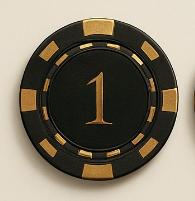
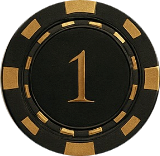
arreglado fichas rouleta

diff --git a/client/src/React/pages/games/RouletteGame.tsx b/client/src/React/pages/games/RouletteGame.tsx
@@ -3,10 +3,12 @@ import {ChipList, RouletteTable, RouletteWheel, useRoulette} from 'react-casino-
 import 'react-casino-roulette/dist/index.css';
 import '@css/NavBarStyle.css';
 import "@css/NewStyle.css"
-import whiteChip from '@assets/ficha11.png';
-import blueChip from '@assets/ficha10.png';
-import blackChip from '@assets/ficha50.png';
-import cyanChip from '@assets/ficha100.png';
+import oneChip from '@assets/ficha1.png';
+import tenChip from '@assets/ficha10.png';
+import fiftyChip from '@assets/ficha50.png';
+import oneHundredChip from '@assets/ficha100.png';
+import fiveHundredChip from '@assets/ficha500.png';
+import oneThousandChip from '@assets/ficha1000.png';
 import {useAuth} from "@context/AuthContext.tsx";
 import {usePlay} from '@context/PlayContext.tsx';
 import {useUser} from '@context/UserContext';
@@ -18,11 +20,14 @@ const BLACK_NUMBERS = ['2', '4', '6', '8', '10', '11', '13', '15', '17', '20', '
 
 // Definición de los chips
 const chips = {
-    '1': whiteChip,
-    '10': blueChip,
-    '100': blackChip,
-    '500': cyanChip,
+    '1': oneChip,
+    '10': tenChip,
+    '50': fiftyChip,
+    '100': oneHundredChip,
+    '500': fiveHundredChip,
+    '1000': oneThousandChip,
 };
+
 
 
 // ID del juego de ruleta

diff --git a/client/src/Css/NewStyle.css b/client/src/Css/NewStyle.css
@@ -287,6 +287,15 @@
 
 
 
+/*CHIP*/
+.roulette-chips-list li p {
+    display: none;
+}
+
+
+
+
+
 
 
 
